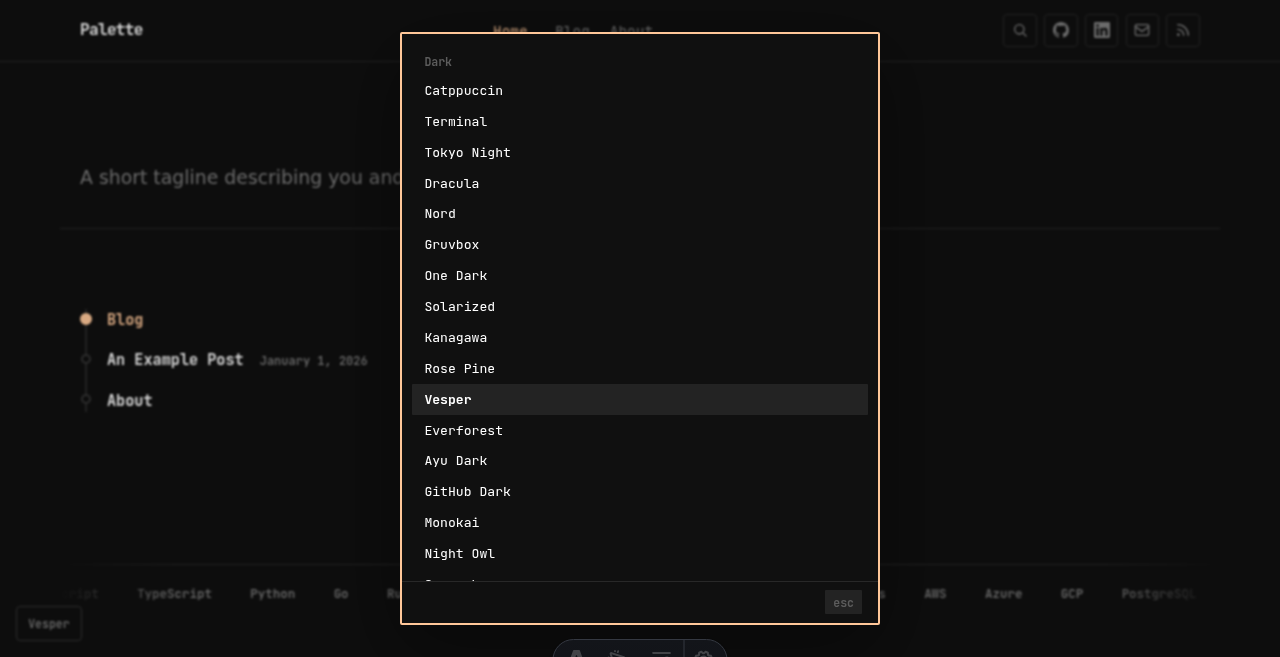
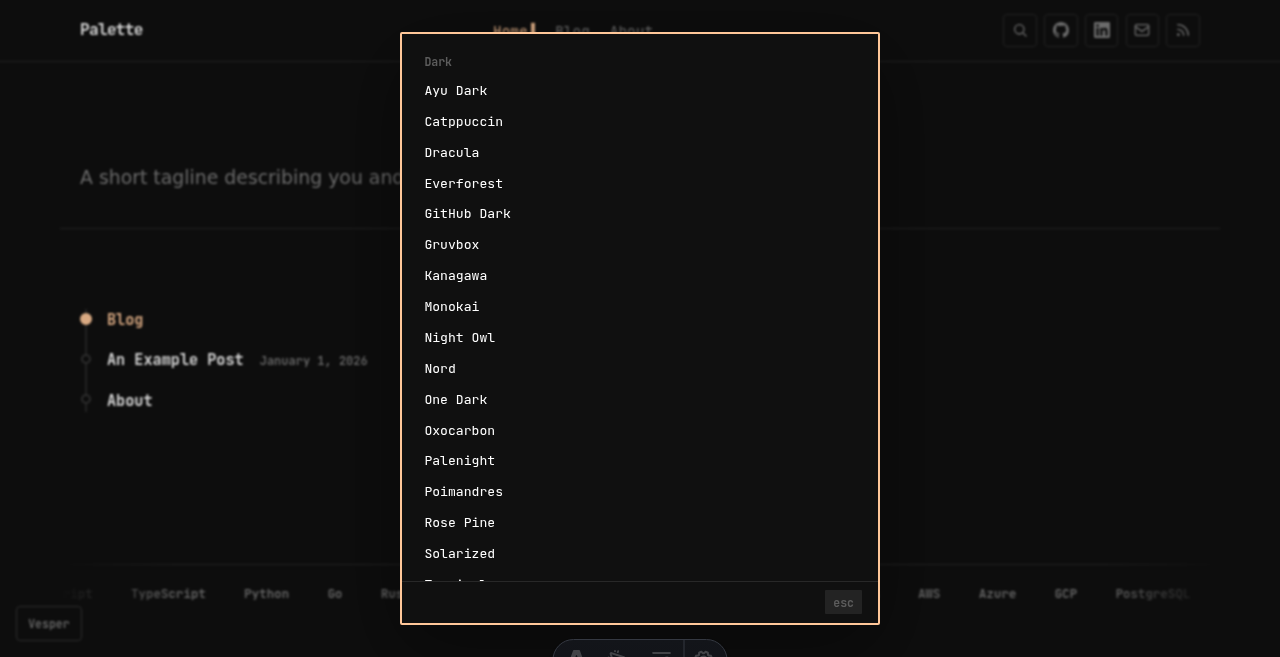
Sort the theme switcher alphabetically within each group
The picker listed palettes in the order they happened to be added, so the
eleven back-ported ones and the three light counterparts all sat in a clump
at the end of their sections. Thirty-two entries in arrival order is not a
list anyone can scan.

Now alphabetical by display name inside Dark and Light. The grouping itself
was already right -- checked every entry's section against the luminance of
its own --bg and none were misfiled -- so only the ordering changed. The
README lists follow the same order, and say so.

Also regenerates the switcher screenshot. Vesper is the default and the
overlay scrolls the active option into view, which after sorting means
opening part-way down the list with the Dark heading off screen, so the
capture scrolls back to the top first.

diff --git a/README.md b/README.md
@@ -30,11 +30,11 @@ A blog and personal site theme for Astro with a terminal look and 32 switchable 
 
 ## Palettes
 
-Open the switcher with the pill in the bottom-left corner, which shows the active palette's name. Arrow keys preview a palette live, Enter commits it, and Escape reverts to the previous one. The choice is saved to `localStorage`; with nothing saved, the palette follows `prefers-color-scheme` (Vesper when dark, Rose Pine Dawn when light).
+Open the switcher with the pill in the bottom-left corner, which shows the active palette's name. Palettes are grouped dark and light, alphabetical within each group. Arrow keys preview a palette live, Enter commits it, and Escape reverts to the previous one. The choice is saved to `localStorage`; with nothing saved, the palette follows `prefers-color-scheme` (Vesper when dark, Rose Pine Dawn when light).
 
-**Dark (19)** — Catppuccin, Terminal, Tokyo Night, Dracula, Nord, Gruvbox, One Dark, Solarized, Kanagawa, Rose Pine, Vesper, Everforest, Ayu Dark, GitHub Dark, Monokai, Night Owl, Oxocarbon, Poimandres, Palenight
+**Dark (19)** — Ayu Dark, Catppuccin, Dracula, Everforest, GitHub Dark, Gruvbox, Kanagawa, Monokai, Night Owl, Nord, One Dark, Oxocarbon, Palenight, Poimandres, Rose Pine, Solarized, Terminal, Tokyo Night, Vesper
 
-**Light (13)** — Catppuccin Latte, Tokyo Day, Gruvbox Light, One Light, Solarized Light, Kanagawa Lotus, Rose Pine Dawn, Everforest Light, Ayu Light, GitHub Light, Alucard, Light Owl, Oxocarbon Light
+**Light (13)** — Alucard, Ayu Light, Catppuccin Latte, Everforest Light, GitHub Light, Gruvbox Light, Kanagawa Lotus, Light Owl, One Light, Oxocarbon Light, Rose Pine Dawn, Solarized Light, Tokyo Day
 
 The palette a first-time visitor sees is set in `src/lib/palette.ts` — one entry for `prefers-color-scheme: dark`, one for light. Both the pre-paint script and the switcher read it, so changing it there is enough.
 
